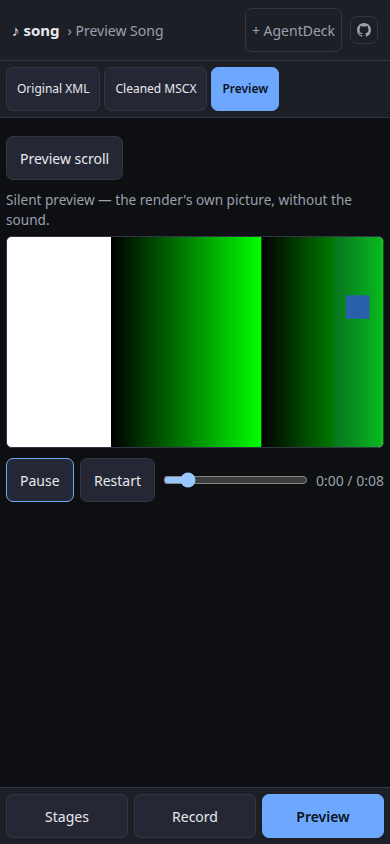
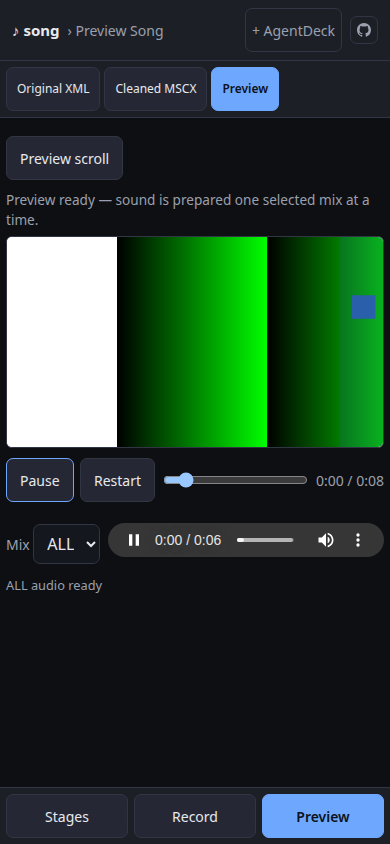
Keep the preview's sound and picture on one lifecycle
The mobile redesign and #67's synchronized audio both rewrote the preview, and
the two lifecycles have to agree. Hiding the pane now *pauses* — the sound stops
and the frames stop, but the prepared picture and the prepared WAV stay mounted,
because switching Preview → Record to nudge a margin is the normal move on a
phone and it should not cost another rasterisation. Invalidating still destroys,
and destroying takes the audio with it: the request is aborted, the element is
cleared and the object URL is revoked, so a changed quality, margin, tempo or
cleaned score cannot leave a stale mix behind to be heard against a new picture.

The four new browser tests were each checked by sabotage: making the pane switch
stop pausing, making invalidation detach without destroying, and dropping the
stale-token guard on a late WAV each fail the matching test.

diff --git a/src/song_app/static/scroll_preview.js b/src/song_app/static/scroll_preview.js
@@ -149,7 +149,6 @@
     let request = 0;
     let controller = null;
     let objectUrl = null;
-    let dead = false;
 
     const playBtn = document.createElement("button");
     playBtn.setAttribute("data-preview", "play");
@@ -336,13 +335,7 @@
         }
         objectUrl = url;
         await attach(url);
-        // A destroy can land between the fetch and the WAV's metadata. Attaching
-        // has already put the sound on the element by then, so let go of it here
-        // rather than leaving a dead player holding playable audio.
-        if (token !== request || mix.value !== name || dead) {
-          if (dead) clearAudio();
-          return;
-        }
+        if (token !== request || mix.value !== name) return;
         audioReady = true;
         preparing = false;
         tail = time >= audio.duration;
@@ -419,7 +412,6 @@
     // `destroy` throws the audio away with the picture; `pause` only stops the
     // sound and the frames, so coming back to a hidden preview costs nothing.
     function destroy() {
-      dead = true;
       ++request;
       if (controller) controller.abort();
       wantedPlay = false;

diff --git a/src/song_app/static/pwa-assets.js b/src/song_app/static/pwa-assets.js
@@ -1,1 +1,1 @@
-self.SONG_PWA = Object.freeze({"cache":"song-static-25422d7cbd95","assets":["/style.css","/pwa.css","/app.js","/scroll_preview.js","/rendering_state.js","/pwa.js","/offline.html","/favicon.svg","/apple-touch-icon.png","/icon-192.png","/icon-512.png","/icon-maskable-512.png","/manifest.webmanifest"]});
+self.SONG_PWA = Object.freeze({"cache":"song-static-f3d816557104","assets":["/style.css","/pwa.css","/app.js","/scroll_preview.js","/rendering_state.js","/pwa.js","/offline.html","/favicon.svg","/apple-touch-icon.png","/icon-192.png","/icon-512.png","/icon-maskable-512.png","/manifest.webmanifest"]});

diff --git a/src/song_app/tests/test_scroll_preview_ui.py b/src/song_app/tests/test_scroll_preview_ui.py
@@ -539,10 +539,16 @@ def test_the_player_fits_a_phone(live, page):
     # The controls are on screen and usable, not off the side of the panel.
     for control in ("play", "restart", "seek", "mix", "audio"):
         assert page.locator(f'[data-preview="{control}"]').is_visible()
+    page.wait_for_selector('[data-preview="audio-status"]:has-text("ALL audio ready")')
     page.locator('[data-preview="play"]').click()
     page.wait_for_timeout(400)
     assert _left(page) > _left_for(SCROLL["xs"][0])
     if evidence := os.getenv("ISSUE_66_EVIDENCE_DIR"):
+        # The evidence has to show the UI as it actually settles: picture, mix
+        # picker and the WAV's own controls, with a mix prepared.
+        assert page.locator('[data-preview="mix"]').is_visible()
+        assert "ALL audio ready" in \
+            page.locator('[data-preview="audio-status"]').inner_text()
         os.makedirs(evidence, exist_ok=True)
         page.screenshot(path=os.path.join(evidence, "issue-66-preview-390.png"),
                         full_page=True)
@@ -580,6 +586,158 @@ def test_hiding_preview_while_it_is_preparing_keeps_the_result(live, page):
     page.locator(".mobilebar").get_by_role("button", name="Preview").click()
     assert page.locator(".pvviewport").is_visible()
     assert len(requests) == 1
+
+
+def _count(page, fragment):
+    """How many requests for `fragment` the page has made since `_watch`."""
+    return page.evaluate("f => window.__seen.filter(u => u.includes(f)).length",
+                         fragment)
+
+
+def _watch(page):
+    """Record every request, and every object URL made and let go of.
+
+    The object URLs are the honest way to ask whether the sound was really
+    dropped: a preview that is torn down but still holds a blob URL is one that
+    could be heard again, and nothing in the DOM would show it.
+    """
+    page.evaluate("""() => {
+        window.__seen = [];
+        window.__blobs = { made: 0, freed: 0 };
+        const fetched = window.fetch;
+        window.fetch = (...args) => { window.__seen.push(String(args[0])); return fetched(...args); };
+        const make = URL.createObjectURL.bind(URL);
+        const free = URL.revokeObjectURL.bind(URL);
+        URL.createObjectURL = (b) => { window.__blobs.made++; return make(b); };
+        URL.revokeObjectURL = (u) => { window.__blobs.freed++; return free(u); };
+    }""")
+
+
+def _blobs(page):
+    return page.evaluate("() => window.__blobs")
+
+
+def test_hiding_preview_pauses_the_sound_but_keeps_it_prepared(live, page):
+    """Switching to Record to nudge a margin is the normal move, not a teardown."""
+    base, slug, _ = live
+    page.set_viewport_size({"width": 390, "height": 844})
+    page.goto(f"{base}/#/song/{slug}")
+    _watch(page)
+    page.locator(".mobilebar").get_by_role("button", name="Preview").click()
+    page.locator('[data-preview="open"]').click()
+    page.wait_for_selector(".pvviewport > canvas")
+    page.locator('[data-preview="mix"]').select_option("S1")
+    page.wait_for_selector('[data-preview="audio-status"]:has-text("S1 audio ready")')
+    prepared = (_count(page, "/scroll-preview?"), _count(page, "/scroll-preview-audio?"))
+
+    page.locator('[data-preview="play"]').click()
+    page.wait_for_timeout(300)
+    assert not page.locator('[data-preview="audio"]').evaluate("a => a.paused")
+
+    page.locator(".mobilebar").get_by_role("button", name="Record").click()
+    page.wait_for_timeout(300)
+    audio = page.locator('[data-preview="audio"]')
+    assert audio.evaluate("a => a.paused"), "hiding the pane must stop the sound"
+    held = audio.evaluate("a => a.currentTime")
+    assert held > 0
+    assert page.locator('[data-preview="play"]').inner_text() == "Play"
+    # Paused, not thrown away: the picture and the prepared WAV are both still here.
+    page.wait_for_timeout(300)
+    assert audio.evaluate("a => a.currentTime") == pytest.approx(held, abs=0.05)
+    assert audio.evaluate("a => !!a.src")
+    assert page.locator(".pvviewport").count() == 1
+
+    page.locator(".mobilebar").get_by_role("button", name="Preview").click()
+    page.locator('[data-preview="play"]').click()
+    page.wait_for_timeout(300)
+    assert not audio.evaluate("a => a.paused"), "coming back must resume, not re-prepare"
+    assert audio.evaluate("a => a.currentTime") > held
+    assert page.locator('[data-preview="mix"]').input_value() == "S1"
+    assert (_count(page, "/scroll-preview?"), _count(page, "/scroll-preview-audio?")) \
+        == prepared
+
+
+def test_changing_a_setting_invalidates_the_sound_with_the_picture(live, page):
+    """A stale mix is a wrong tempo or a wrong crop — it must not survive either."""
+    base, slug, _ = live
+    _open_record(page, base, slug)
+    _watch(page)
+    page.locator('[data-preview="open"]').click()
+    page.wait_for_selector(".pvviewport > canvas")
+    page.wait_for_selector('[data-preview="audio-status"]:has-text("ALL audio ready")')
+    assert _blobs(page)["made"] == 1
+
+    page.locator(".record-common select").select_option("720p")
+    page.wait_for_selector(".pvviewport", state="detached")
+    assert "inputs changed" in page.locator(".pvstatus").inner_text()
+    assert page.locator('[data-preview="audio"]').count() == 0
+    assert page.evaluate("() => document.querySelectorAll('audio').length") == 0
+    assert _blobs(page) == {"made": 1, "freed": 1}, "the WAV must be let go of too"
+
+    page.locator('[data-preview="open"]').click()
+    page.wait_for_selector(".pvviewport > canvas")
+    page.wait_for_selector('[data-preview="audio-status"]:has-text("ALL audio ready")')
+    assert "quality=720p" in page.evaluate(
+        "() => window.__seen.filter(u => u.includes('/scroll-preview-audio?')).pop()")
+
+
+def test_a_changed_score_invalidates_the_sound_with_the_picture(live, page):
+    base, slug, cleaned = live
+    _open_record(page, base, slug)
+    _watch(page)
+    page.locator('[data-preview="open"]').click()
+    page.wait_for_selector(".pvviewport > canvas")
+    page.wait_for_selector('[data-preview="audio-status"]:has-text("ALL audio ready")')
+
+    original = open(cleaned).read()
+    try:
+        with open(cleaned, "w") as fh:
+            fh.write("<museScore><Score><Staff/></Score></museScore>")
+        page.wait_for_selector(".pvviewport", state="detached", timeout=5000)
+        assert page.locator('[data-preview="audio"]').count() == 0
+        assert _blobs(page) == {"made": 1, "freed": 1}
+
+        page.locator('[data-preview="open"]').click()
+        page.wait_for_selector('[data-preview="time"]:has-text("0:05")')
+        page.wait_for_selector('[data-preview="audio-status"]:has-text("ALL audio ready")')
+    finally:
+        with open(cleaned, "w") as fh:
+            fh.write(original)
+        page.wait_for_selector(".pvviewport", state="detached", timeout=5000)
+
+
+def test_a_late_audio_response_cannot_reattach_to_an_invalidated_preview(live, page):
+    """The WAV comes back after the preview it belongs to is already gone."""
+    base, slug, _ = live
+    errors = []
+    page.on("pageerror", lambda e: errors.append(str(e)))
+    _open_record(page, base, slug)
+    _watch(page)
+    # Read the body straight away, then hold the response back. The sound is
+    # therefore already fetched — and cannot be cancelled — when the preview it
+    # was asked for is invalidated underneath it.
+    page.evaluate("""() => {
+        const original = window.fetch;
+        window.fetch = async (...args) => {
+          const response = await original(...args);
+          if (!String(args[0]).includes('/scroll-preview-audio?')) return response;
+          const blob = await response.blob();
+          await new Promise((r) => setTimeout(r, 700));
+          return new Response(blob, { status: response.status });
+        };
+    }""")
+    page.locator('[data-preview="open"]').click()
+    page.wait_for_selector(".pvviewport > canvas")
+    page.wait_for_selector('[data-preview="audio-status"]:has-text("Preparing ALL audio")')
+
+    page.locator(".record-common select").select_option("720p")
+    page.wait_for_selector(".pvviewport", state="detached")
+    page.wait_for_timeout(1200)
+
+    assert "inputs changed" in page.locator(".pvstatus").inner_text()
+    assert page.evaluate("() => document.querySelectorAll('audio').length") == 0
+    assert _blobs(page)["made"] == _blobs(page)["freed"], "a late WAV was kept"
+    assert not errors, f"the late response raised: {errors}"
 
 
 def test_a_refused_score_says_so_instead_of_playing(live, page):
